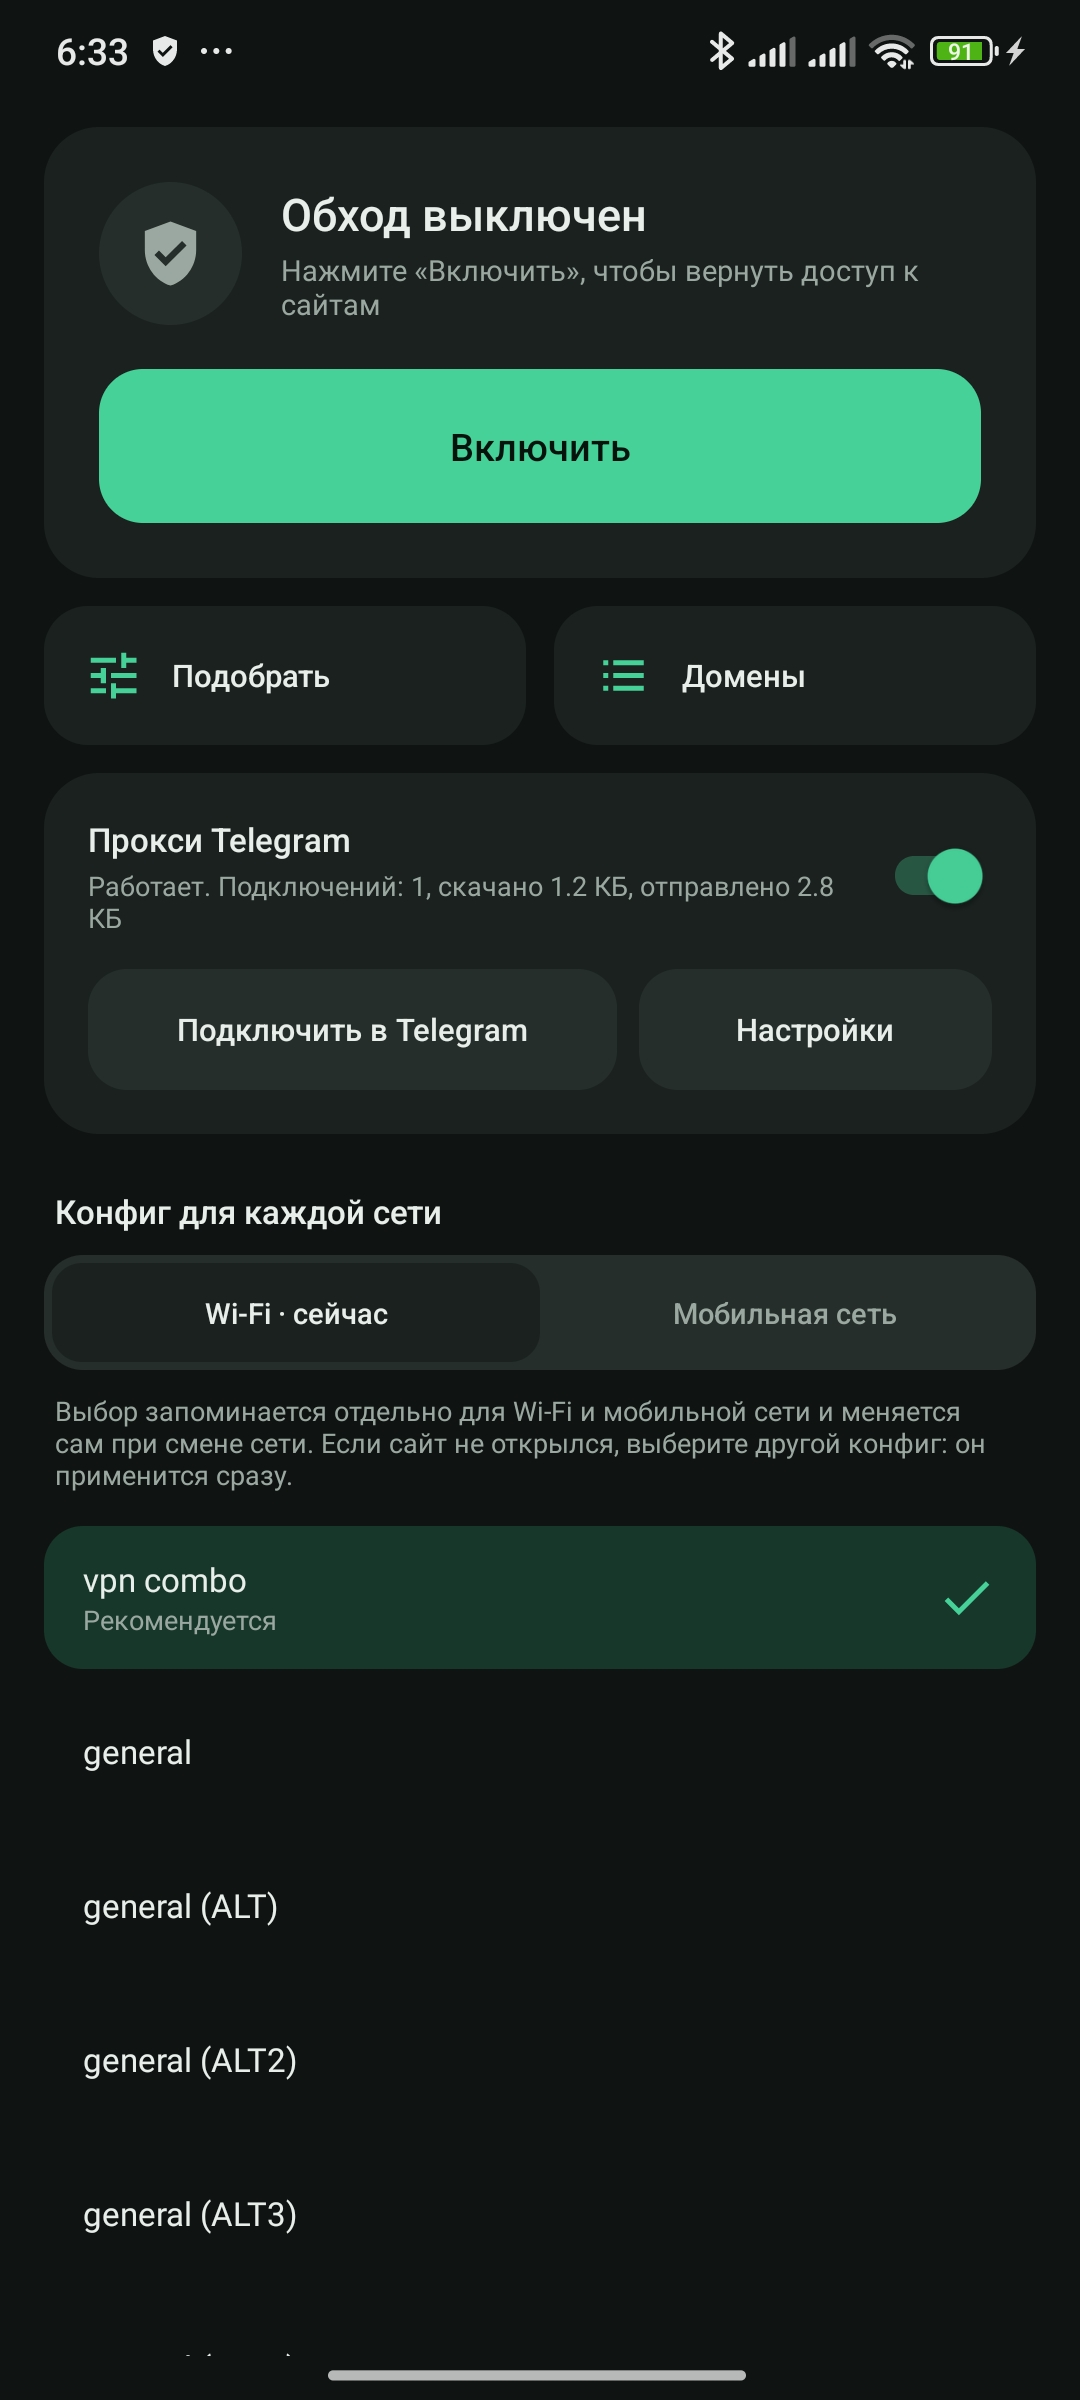
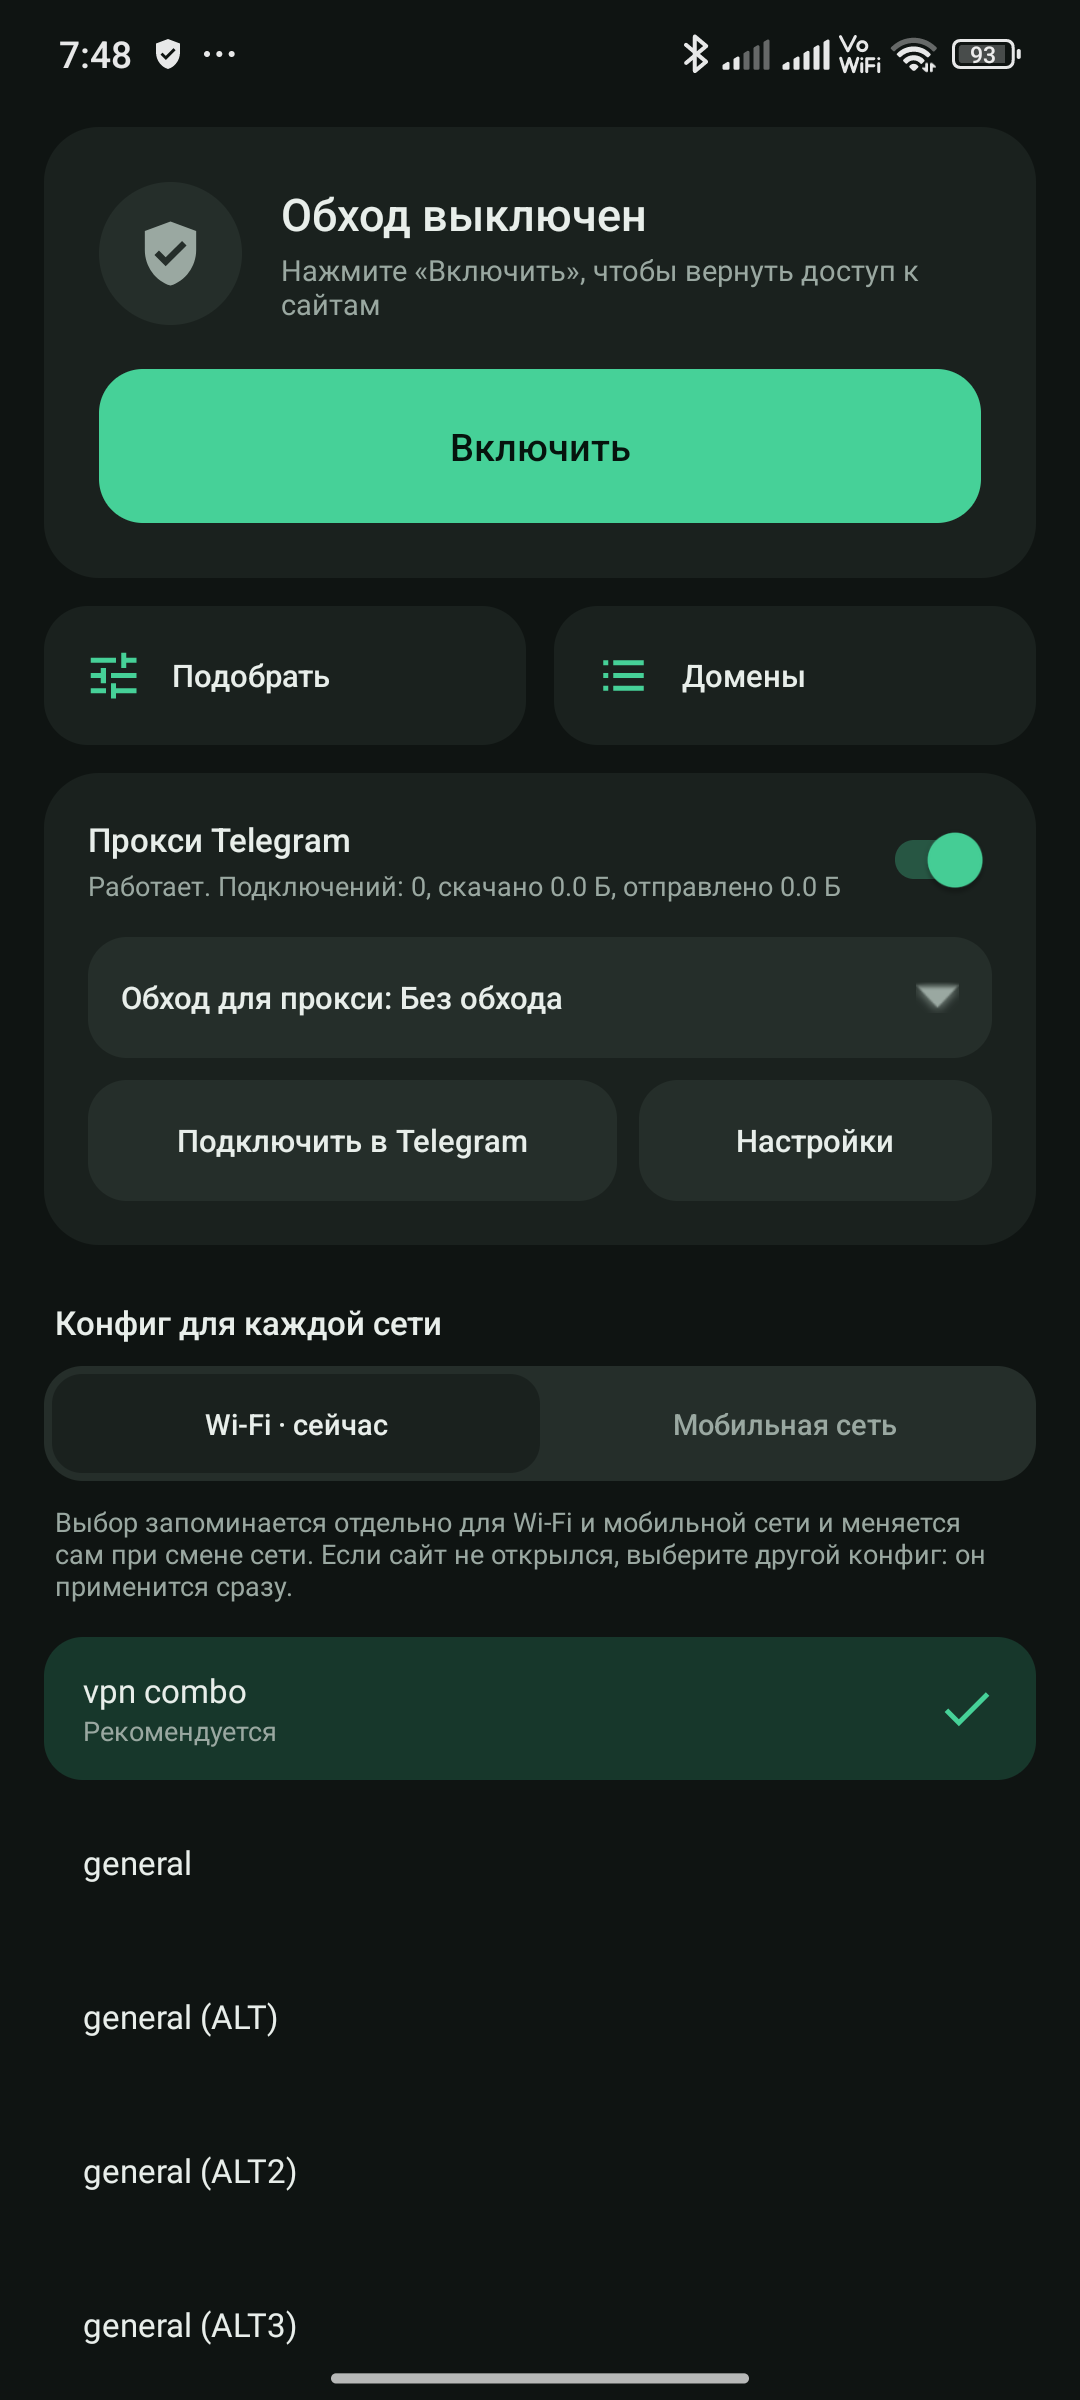
README: zapret2 и tg-ws-proxy в описании, новый снимок экрана

diff --git a/README.md b/README.md
@@ -6,7 +6,7 @@
 
 <img src="docs/screenshot.png" width="280" alt="Экран приложения">
 
-Это перенос [Zapret Cap для Linux](https://github.com/CapptainnCWC/zapret-cap) на Android. Основа проекта: стратегии [zapret-discord-youtube](https://github.com/Flowseal/zapret-discord-youtube) и движок [ByeDPI](https://github.com/hufrea/byedpi). Конфиги называются так же, как стратегии в Windows-версии. Права root не нужны.
+Это перенос [Zapret Cap для Linux](https://github.com/CapptainnCWC/zapret-cap) на Android. Основа проекта: стратегии [zapret-discord-youtube](https://github.com/Flowseal/zapret-discord-youtube), [zapret2](https://github.com/bol-van/zapret2) от bol-van и прокси для Telegram [tg-ws-proxy](https://github.com/Flowseal/tg-ws-proxy). Конфиги называются так же, как стратегии в Windows-версии. Права root не нужны.
 
 ## Установка
 
@@ -187,4 +187,4 @@ keyPassword=...
 
 ## Лицензии
 
-Код приложения распространяется по лицензии MIT, см. [LICENSE.txt](LICENSE.txt). В APK входят сторонние компоненты с собственными лицензиями, в том числе под GPL: [THIRD_PARTY.md](THIRD_PARTY.md).
+Код приложения распространяется по лицензии MIT, см. [LICENSE.txt](LICENSE.txt). В APK входят сторонние компоненты с собственными лицензиями: [THIRD_PARTY.md](THIRD_PARTY.md).
